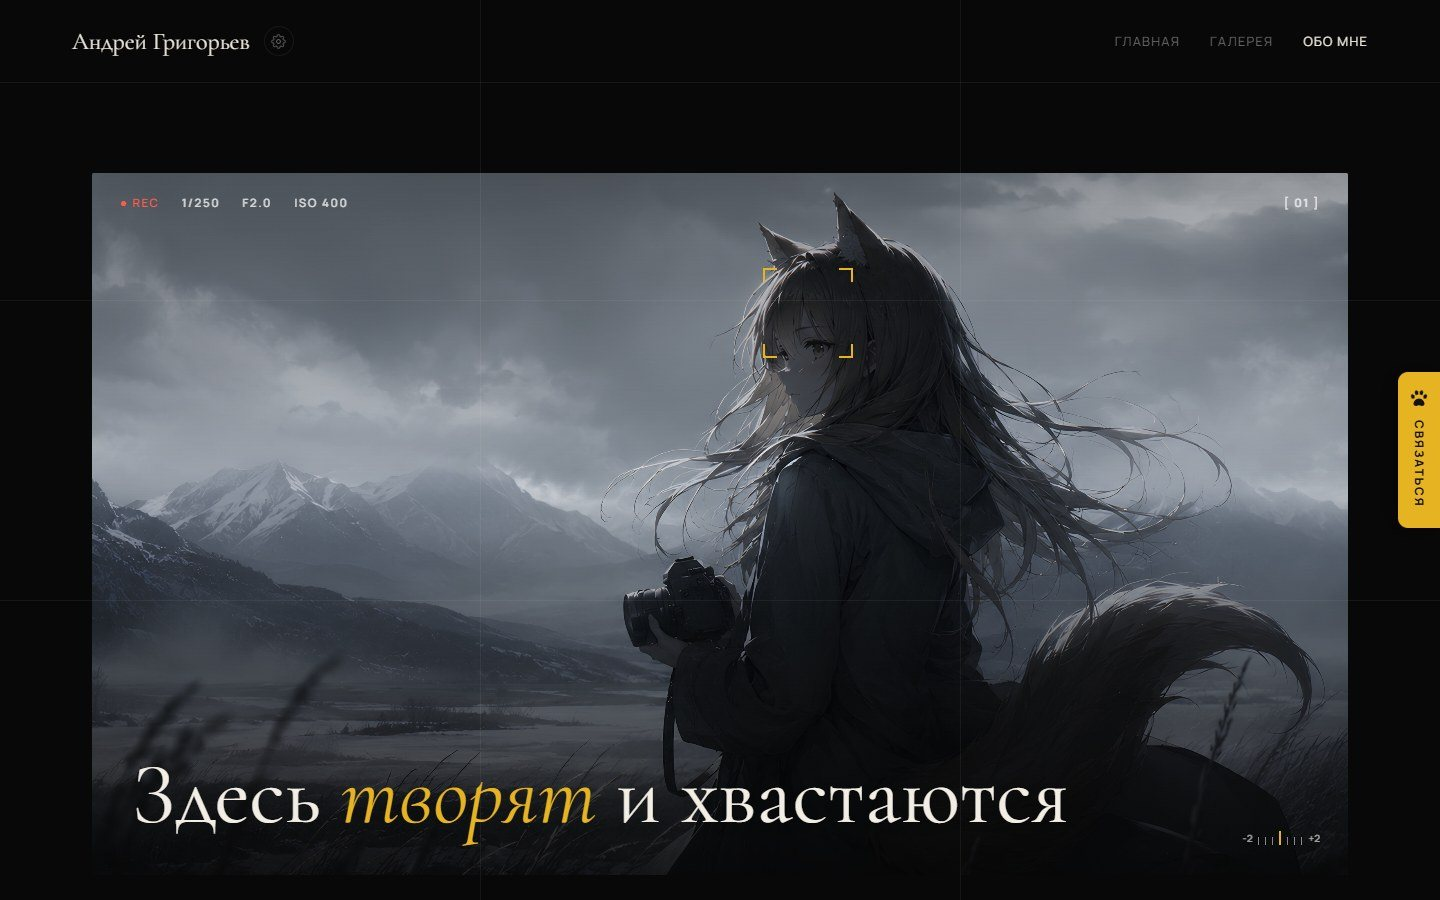
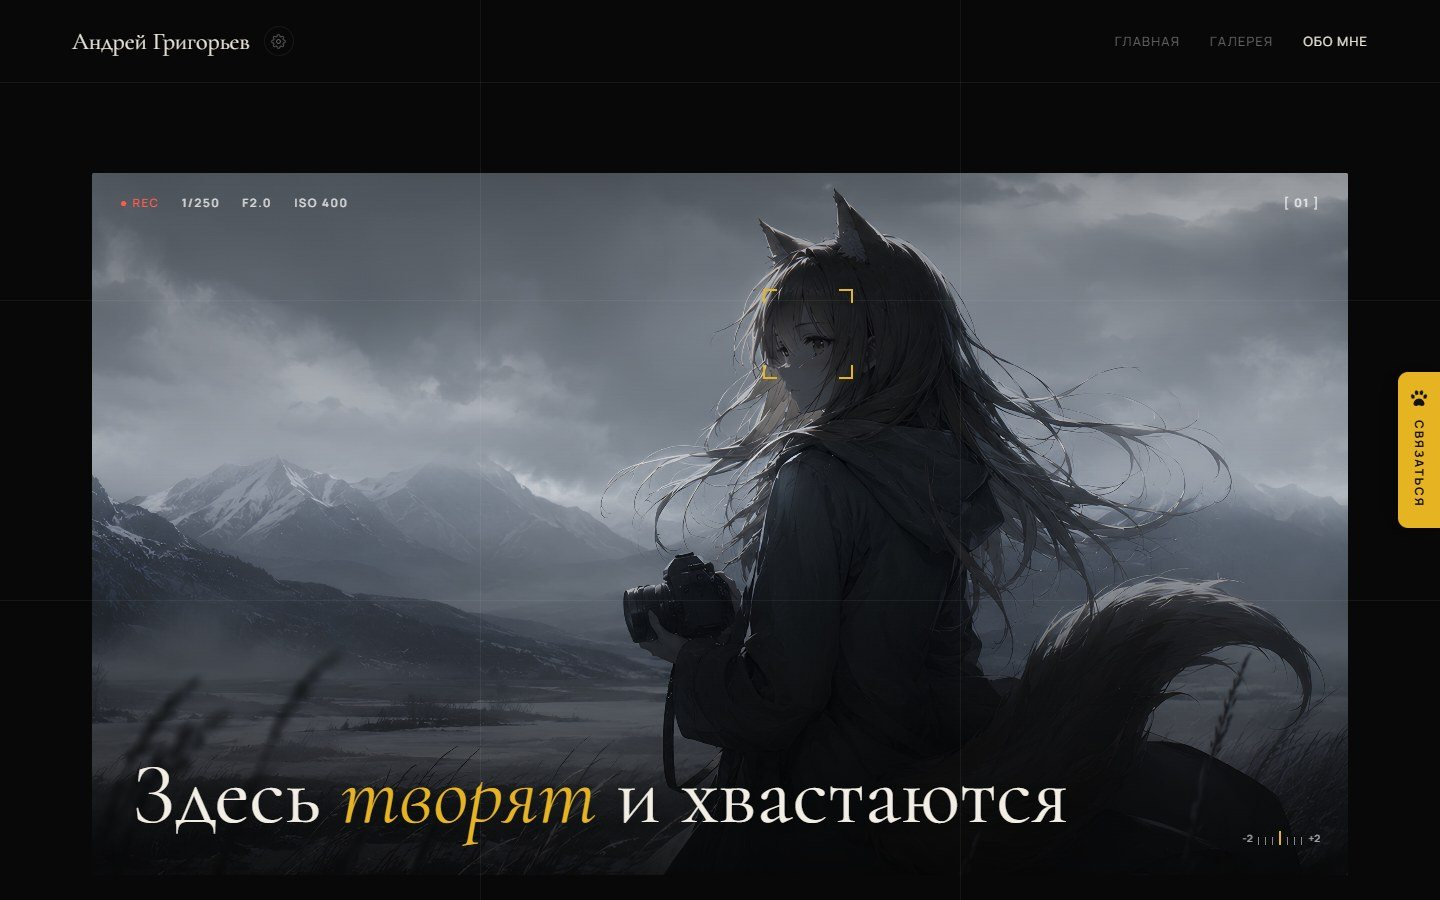
README: обложки и направления как на рабочем сайте, ссылка на сайт
Витрина тестового сайта повторяет рабочий: направления «Мероприятия»,
«Косплей», «Атмосфера» с их фото и цветами, обложки, форматы карточек,
точки фокуса и порядок фото альбомов. Скриншоты и анимации пересняты.

diff --git a/prototypes/_readme_work/r_shots.js b/prototypes/_readme_work/r_shots.js
@@ -16,7 +16,7 @@ module.exports = async (browser) => {
   if (want('site')) {
     const { ctx, p } = await newPage(browser, { width: 1440, height: 900 });
     // Альбом: обложка со сроком и сетка с сердечками
-    await p.goto(B + '/album/miku', { waitUntil: 'networkidle' }); await p.addStyleTag({ content: NOGRAIN }); await wait(p, 1800);
+    await p.goto(B + '/album/kosplei-miku-b62d1e', { waitUntil: 'networkidle' }); await p.addStyleTag({ content: NOGRAIN }); await wait(p, 1800);
     await p.evaluate(() => document.getElementById('vf-island-collapse')?.click()); await wait(p, 500);
     await p.screenshot({ path: S + 'album_cover.jpg', quality: 88 });
     await p.evaluate(() => window.scrollTo(0, document.querySelector('.photo-card').getBoundingClientRect().top + scrollY - 40)); await wait(p, 1200);
@@ -72,7 +72,7 @@ module.exports = async (browser) => {
 
   if (want('phone')) {
     const { ctx, p } = await newPage(browser, { width: 390, height: 844 }, { dpr: 2, mobile: true });
-    for (const [u, n, w] of [['/', 'm_home', 5200], ['/gallery', 'm_gallery', 1800], ['/album/miku', 'm_album', 1800], ['/about', 'm_about', 1800]]) {
+    for (const [u, n, w] of [['/', 'm_home', 5200], ['/gallery', 'm_gallery', 1800], ['/album/kosplei-miku-b62d1e', 'm_album', 1800], ['/about', 'm_about', 1800]]) {
       await p.goto(B + u, { waitUntil: 'networkidle' }); await p.addStyleTag({ content: NOGRAIN }); await wait(p, w);
       if (n === 'm_gallery') { await p.evaluate(() => document.getElementById('vf-toggle-mobile')?.click()); await wait(p, 700); }
       if (n === 'm_album') { await p.evaluate(() => window.scrollTo(0, document.querySelector('.photo-card').getBoundingClientRect().top + scrollY - 70)); await wait(p, 1000); }

diff --git a/prototypes/_readme_work/r_all.js b/prototypes/_readme_work/r_all.js
@@ -69,7 +69,7 @@ module.exports = async (browser) => {
 
   // 4. Альбом: открыть фото, листать, данные съёмки
   if (want('album')) {
-    const { ctx, p } = await open('/album/miku-night', 1500);
+    const { ctx, p } = await open('/album/kosplei-miku-fb8b9d', 1500);
     await p.evaluate(() => window.scrollTo(0, document.querySelector('.photo-card').getBoundingClientRect().top + scrollY - 90)); await wait(p, 600);
     await p.mouse.move(700, 500);
     res.album = await rec(p, 'album', async () => {

diff --git a/prototypes/_server/fake_site.py b/prototypes/_server/fake_site.py
@@ -29,8 +29,8 @@ avatar = next((f for f in sorted(os.listdir(UP)) if f.startswith("avatar_")), "x
 OWNER = dict(id=1, name="Андрей", surname="Григорьев", middle_name="", email="owner@example.com",
              phone="+79991234567", login="admin", hash_password=generate_password_hash("secret"), is_active=1,
              avatar_url="uploads/" + avatar, avatar_thumb_url=None,
-             about_photo_url=None, about_photo_thumb_url=None, about_focus_x=57, about_focus_y=20,
-             about_mobile_focus_x=60, about_mobile_focus_y=22, watermark_text="ВЕЛИКАЯ ХОРО МУДРАЯ", role_id=1,
+             about_photo_url=None, about_photo_thumb_url=None, about_focus_x=57, about_focus_y=23,
+             about_mobile_focus_x=57, about_mobile_focus_y=27, watermark_text="ВЕЛИКАЯ ХОРО МУДРАЯ", role_id=1,
              storage_limit_gb=(float(os.environ["FAKE_LIMIT"]) or None) if os.environ.get("FAKE_LIMIT") else 10)
 # Награды: картинки — prototypes/about-awards/dipl*.jpg (подменяются в HTML ниже)
 ACH = [dict(id=1, users_id=1, year="2026", title="Гран-при",
@@ -52,30 +52,42 @@ import datetime as _dt
 from PIL import Image as _Image
 _ALB_ROOT = os.path.join(UP, "albums")
 _today = _dt.date.today()
-CATS = [dict(id=1, slug="cosplay", name="Косплей", description="Образы, которые оживают в кадре", tagline="Персонажи"),
-        dict(id=2, slug="concerts", name="Концерты", description="Свет сцены, движение и эмоции зала", tagline="Сцена"),
-        dict(id=3, slug="nature", name="Природа", description="Туман, свет и тишина", tagline="Пейзаж")]
+# Категории, направления, обложки, цвета и порядок фото — как на рабочем сайте
+# (взято с его публичных страниц 19.10.2026; порядок фото — showcase_order.json).
+CATS = [dict(id=1, slug="meropriiatiia", name="Мероприятия", tagline="Концерты & Драйв",
+             description="Репортажная съемка. Эмоции, атмосфера, детали."),
+        dict(id=2, slug="kosplei", name="Косплей", tagline="Персонажи & Свет",
+             description="Живые уличные фотосессии. Помогу подобрать подходящую локацию, составлю маршрут и ракурсы для вашего образа."),
+        dict(id=3, slug="atmosfera", name="Атмосфера", tagline="Природа & Созерцание",
+             description="Свободное творчество. Мои личные проекты и фотоэксперименты.")]
 _CAT = {c["slug"]: c for c in CATS}
-# (папка, slug, название, категория, формат обложки, цвет, дней до удаления, отбор, обложка, подпись)
+_MARA = "Косплеер: [Мара](https://vk.ru/dont_be_shyyyyy)"
+# (папка, slug, название, категория, формат карточки, цвет, дней до удаления (витрина), отбор,
+#  обложка full, обложка mobile, фокус обложки x/y, масштаб, подпись, дата съёмки)
 ALBUM_SPECS = [
-    ("kosplei-miku-b62d1e_4", "miku", "Мику: летний день", "cosplay", "type-wide", "#2f5f66", 5, 1, 8,
-     "Солнечная набережная, бирюзовые хвосты и немного вокалоида"),
-    ("kosplei-miku-fb8b9d_3", "miku-night", "Мику: ночной город", "cosplay", "type-tall", "#1b2442", 2, 1, 2,
-     "Неон, фонари и огни колеса обозрения"),
-    ("vypusk-626222_5", "vypusk", "Выпуск", "concerts", "type-square", "#1d2a63", None, 0, 3,
-     "Выпускной концерт: танцы, свет и зал с фонариками"),
-    ("tsvety-2b049d_6", "tsvety", "Цветы", "nature", "type-square", "#3a4a5e", 20, 0, 0,
-     "Туманное утро и свет сквозь листву"),
+    ("kosplei-miku-fb8b9d_3", "kosplei-miku-fb8b9d", "Косплей Мику", "kosplei", "type-square", "#de8773", 2, 1,
+     "cover_92a43fc5.jpg", "covm_621ebf35.jpg", 80, 50, 1.0, _MARA, _dt.date(2025, 10, 4)),
+    ("kosplei-miku-b62d1e_4", "kosplei-miku-b62d1e", "Косплей Мику", "kosplei", "type-horizontal", "#eee8dc", 5, 1,
+     "cover_05023dd3.jpg", "covm_b524b9f3.jpg", 50, 50, 1.0, _MARA, _dt.date(2026, 7, 6)),
+    ("vypusk-626222_5", "vypusk-626222", "Выпуск", "meropriiatiia", "type-horizontal", "#051b5a", None, 0,
+     "cover_561851ff.jpg", "covm_b82b829d.jpg", 50, 50, 1.1, None, _dt.date(2026, 6, 27)),
+    ("tsvety-2b049d_6", "tsvety-2b049d", "Цветы", "atmosfera", "type-square", "#060911", None, 0,
+     "cover_7e17460e.jpg", "covm_4d205e7c.jpg", 50, 50, 1.0, None, _dt.date(2026, 5, 18)),
 ]
+import json as _json
+_ORDER_FILE = os.path.join(HERE, "showcase_order.json")
+_ORDER = _json.load(open(_ORDER_FILE, encoding="utf-8")) if os.path.isfile(_ORDER_FILE) else {}
 EXIF_SETS = [("Sony ILCE-6000", "E 18-55mm F3.5-5.6 OSS", "35 мм", "1/250", "f/5.6", "ISO 100", None, None),
              ("Sony ILCE-6000", "Sigma 30mm F1.4 DC DN", "30 мм", "1/160", "f/1.4", "ISO 800", "-0.3 EV", None),
              ("Sony ILCE-6000", "Sigma 56mm F1.4 DC DN", "56 мм", "1/320", "f/1.8", "ISO 1600", None, None)]
 PHOTOS_BY_ALBUM, PHOTOS, ALBUMS = {}, [], []
-for (_dir, _slug, _title, _cat, _ratio, _hex, _days, _sel, _cov, _cap) in ALBUM_SPECS:
+for (_dir, _slug, _title, _cat, _ratio, _hex, _days, _sel, _cfull, _cmob, _fx, _fy, _zoom, _cap, _date) in ALBUM_SPECS:
     _aid = int(_dir.rsplit("_", 1)[1])
     _tdir = os.path.join(_ALB_ROOT, _dir, "thumb")
+    _files = sorted(os.listdir(_tdir)) if os.path.isdir(_tdir) else []
+    _files = [f for f in _ORDER.get(_dir, []) if f in _files] + [f for f in _files if f not in _ORDER.get(_dir, [])]
     _photos = []
-    for _i, _f in enumerate(sorted(os.listdir(_tdir)) if os.path.isdir(_tdir) else [], 1):
+    for _i, _f in enumerate(_files, 1):
         try:
             _w, _h = _Image.open(os.path.join(_tdir, _f)).size
         except Exception:
@@ -95,25 +107,30 @@ for (_dir, _slug, _title, _cat, _ratio, _hex, _days, _sel, _cov, _cap) in ALBUM_
                             focus_x=50, focus_y=50, zoom=1.0))
     PHOTOS_BY_ALBUM[_aid] = _photos
     PHOTOS += _photos
-    _c = _photos[min(_cov, len(_photos) - 1)] if _photos else None
+    _cov = lambda sub, name: f"uploads/albums/{_dir}/{sub}/{name}" if os.path.isfile(os.path.join(_ALB_ROOT, _dir, sub, name)) else None
+    _cover = _cov("cover_full", _cfull) or (_photos[0]["file_url"] if _photos else "uploads/" + avatar)
     ALBUMS.append(dict(id=_aid, slug=_slug, title=_title, description=_cap, card_caption=_cap,
-                       cover_url=_c["file_url"] if _c else "uploads/" + avatar,
-                       cover_thumb_url=_c["thumb_url"] if _c else "uploads/" + avatar,
-                       cover_mobile_url=None, cover_ratio=_ratio, color_hex=_hex, cover_focus_x=50, cover_focus_y=40, cover_zoom=1.0,
-                       date_taken=_dt.date(2026, 7, 6), created_at=_dt.datetime(2026, 9, 1),
+                       cover_url=_cover,
+                       cover_thumb_url=_cov("cover_thumb", "thumb_" + _cfull) or _cover,
+                       cover_mobile_url=_cov("cover_mobile", _cmob), cover_ratio=_ratio, color_hex=_hex,
+                       cover_focus_x=_fx, cover_focus_y=_fy, cover_zoom=_zoom,
+                       date_taken=_date, created_at=_dt.datetime(2026, 9, 1),
                        expires_at=_today + _dt.timedelta(days=_days) if _days is not None else None,
                        category_slug=_cat, category_name=_CAT[_cat]["name"], is_active=1, is_private=0, allow_selection=_sel,
                        require_client_info=_sel, is_watermark_enabled=0, access_token="tok" + str(_aid), user_id=1,
                        category_id=_CAT[_cat]["id"]))
 
-# Направления на главной — по одному кадру из альбомов
-def _dir_photo(album_id, idx):
-    ph = PHOTOS_BY_ALBUM.get(album_id) or []
-    return ph[min(idx, len(ph) - 1)]["file_url"] if ph else "uploads/" + avatar
-DIRS = [dict(id=i, file_url=_dir_photo(aid, idx), thumb_url=None, mobile_url=None, color_hex=hx,
-             mobile_focus_x=50, mobile_focus_y=40, mobile_zoom=1.0, category_slug=slug, category_name=_CAT[slug]["name"],
-             category_description=_CAT[slug]["description"], category_tagline=_CAT[slug]["tagline"], category_id=_CAT[slug]["id"])
-        for i, (slug, aid, idx, hx) in enumerate([("cosplay", 4, 8, "#2f5f66"), ("concerts", 5, 3, "#1d2a63"), ("nature", 6, 0, "#3a4a5e")], 1)]
+# Направления на главной — те же фото, мобильные кадры и цвета, что на рабочем сайте
+def _up(path):
+    return path if os.path.isfile(os.path.join(UP, path[len("uploads/"):])) else None
+DIRS = [dict(id=i, file_url=_up(f"uploads/directions/{f}") or "uploads/" + avatar, thumb_url=_up(f"uploads/directions/thumb_{f}"),
+             mobile_url=_up(f"uploads/directions/{m}"), color_hex=hx, mobile_focus_x=mx, mobile_focus_y=my, mobile_zoom=1.0,
+             category_slug=slug, category_name=_CAT[slug]["name"], category_description=_CAT[slug]["description"],
+             category_tagline=_CAT[slug]["tagline"], category_id=_CAT[slug]["id"])
+        for i, (slug, f, m, hx, mx, my) in enumerate([
+            ("meropriiatiia", "dir_237b4bb4.jpg", "dirm_4499dd7c.jpg", "#051359", 50, 50),
+            ("kosplei", "dir_2c939674.jpg", "dirm_34930772.jpg", "#eee8dc", 45, 52),
+            ("atmosfera", "dir_2e51bdb1.jpg", "dirm_d9ac3dc2.jpg", "#060910", 50, 50)], 1)]
 
 # Выдуманные клиенты альбома с отбором — для «Выбора клиентов» в админке
 CLIENTS = [dict(session_uuid="s-anna", client_name="Анна", created_at=_dt.datetime(2026, 10, 12, 18, 40),

diff --git a/README.md b/README.md
@@ -5,11 +5,14 @@
 **Портфолио, которое ведёт себя как камера.** Рамка автофокуса вместо курсора,
 диафрагма переключает тему, а клиенты отбирают кадры прямо в своём альбоме.
 
+### [→ Открыть сайт: andreygrugoriev.ru](https://andreygrugoriev.ru/)
+
 ![Python](https://img.shields.io/badge/Python-3.10-3776AB?logo=python&logoColor=white)
 ![Flask](https://img.shields.io/badge/Flask-3-000000?logo=flask&logoColor=white)
 ![MySQL](https://img.shields.io/badge/MySQL-8-4479A1?logo=mysql&logoColor=white)
 ![JavaScript](https://img.shields.io/badge/JS-без%20фреймворков-F7DF1E?logo=javascript&logoColor=black)
 ![152-ФЗ](https://img.shields.io/badge/152--ФЗ-без%20внешних%20запросов-2ea44f)
+[![Сайт](https://img.shields.io/badge/сайт-andreygrugoriev.ru-e6b322)](https://andreygrugoriev.ru/)
 
 <img src="docs/readme/home.webp" alt="Главная: рамка автофокуса следует за курсором, направления меняют фото и цвет страницы" width="100%">
 
@@ -273,5 +276,6 @@ cd scr && FLASK_DEBUG=1 python __init__.py
 ---
 
 <div align="center">
-<sub>Фотографии на скриншотах — работы автора сайта, опубликованы с согласия моделей. Все права на фото защищены.</sub>
+<sub>Фотографии на скриншотах — работы автора сайта, опубликованы с согласия моделей. Все права на фото защищены.<br>
+Скриншоты сняты на тестовой копии: контакты, клиенты и сроки хранения на них выдуманные. Живая версия — <a href="https://andreygrugoriev.ru/">andreygrugoriev.ru</a>.</sub>
 </div>
